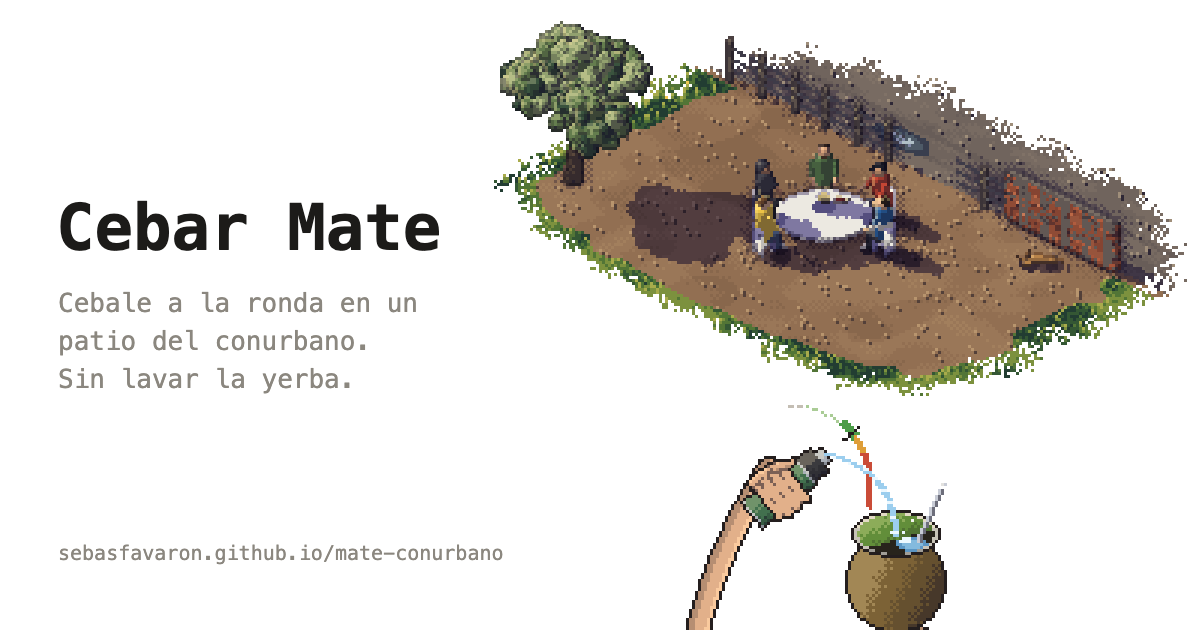
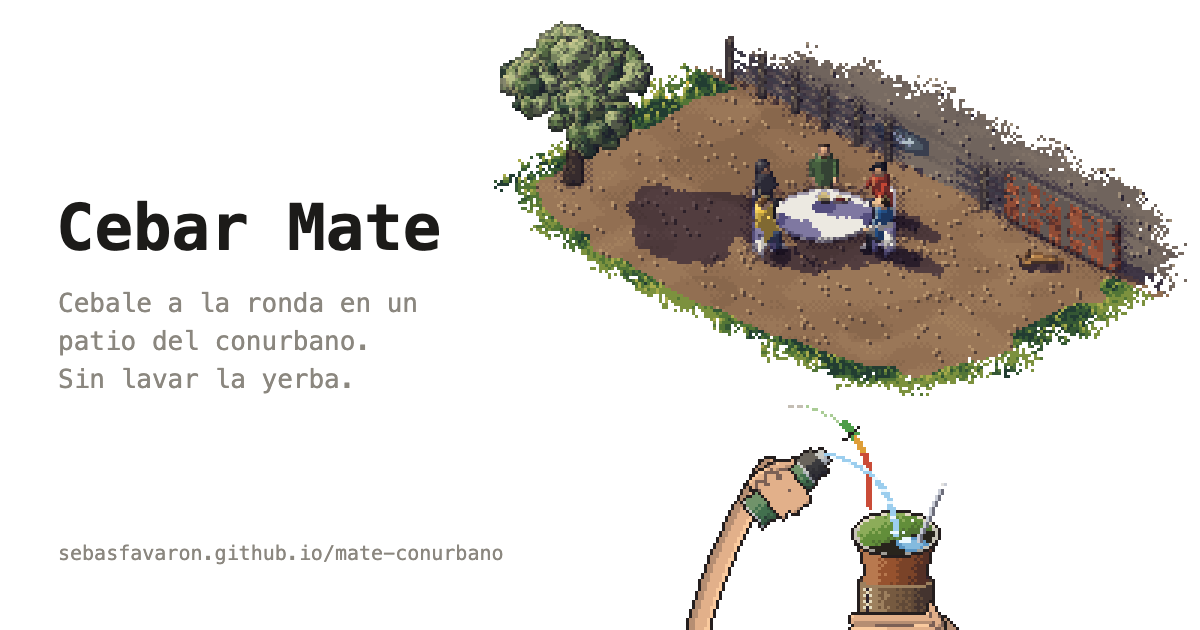
feat(rig): a leather-wrapped mate held in a three-finger grip like the thermos

Changed region(s): [[0.6783, 0.8746, 0.8017, 1.0], [0.6167, 0.754, 0.6783, 0.8444]]

diff --git a/src/scene.js b/src/scene.js
@@ -443,14 +443,14 @@ const lerp3 = (a, b, t) => [lerp(a[0], b[0], t), lerp(a[1], b[1], t), lerp(a[2],
 // Your hands, the thermos and the gourd, drawn pixel by pixel over the bottom centre and not to world scale.
 const RIG = {
   mouth: { x: 204, y: 230, rx: 15, ry: 8 },     // gourd opening seen from 30° above
-  body: { x: 204, y: 246, rx: 17, ry: 17 },     // calabaza belly below the mouth
+  body: { x: 204, y: 256, half: 12.5, top: -11, bottom: 10, arc: 2.5 }, // leather tube: centre, half width, rims, rim ellipse
   pivot: { x: 168, y: 214 },                    // your left fist, where the thermos turns
   thermo: { back: 16, front: 17, half: 6 },     // thermos length behind / ahead of the fist, half width
   hole: { u: .35, v: .45 },                     // centre of the side hole inside the mouth (unit ellipse)
   moundTop: { u: -.45, v: -.45 },               // dry crest against the far wall
 };
 const C = {
-  ink: rgb(36, 30, 30), steel: rampOf([170, 176, 184]), cap: rampOf([196, 52, 44]), gourd: rampOf([124, 98, 54]),
+  ink: rgb(36, 30, 30), steel: rampOf([170, 176, 184]), cap: rampOf([196, 52, 44]), gourd: rampOf([150, 82, 46]), leather: rampOf([118, 90, 64]), lace: rgb(230, 220, 190),
   rim: rampOf([200, 196, 184]), skin: rampOf([226, 176, 138]),
   thermos: rampOf([66, 112, 78]), cup: rampOf([58, 58, 62]),
   yerba: [98, 142, 58], yerbaWet: [52, 86, 40], yerbaPale: [176, 178, 128], hole: rgb(40, 36, 28),
@@ -533,20 +533,24 @@ function hand(parts) {
   });
 }
 
-// Your left hand round the thermos, in its turning frame: the heel of the hand on the near side, four fingers
-// wrapped across the body and the thumb up its edge towards the spout.
-function thermosHand(toScreen, half) {
-  const cap = (a0, b0, a1, b1, r0, r1 = r0) => [...toScreen(a0, b0), ...toScreen(a1, b1), r0, r1];
-  hand([cap(-7.5, -half - 1.6, 1, -half - 1, 3.2, 3),
-    ...[2.2, -1.4, -5, -8.3].map((a, k) => cap(a, -half, a - .4, k === 3 ? half + .2 : half + 1.2, k === 3 ? 1.6 : 2)),
-    cap(.5, -half - 1.6, 6, -half + .8, 2.1, 1.7)]);
+// A hand round an upright cylinder, in the cylinder's own frame (a along it, b across, ±half its edges): the
+// heel of the hand on one side, four fingers wrapped across the front and the thumb up the edge. k scales it.
+const FINGERS = [[2, 2.4, 1.3], [-2.6, 2.4, 1.2], [-7, 2, .4]]; // along the body, radius, tip past the edge
+function grip(toScreen, half, k = 1) {
+  const cap = (a0, b0, a1, b1, r0, r1 = r0) => [...toScreen(a0 * k, b0), ...toScreen(a1 * k, b1), r0 * k, r1 * k];
+  hand([cap(-7.5, -half - 1.6 * k, 1, -half - k, 3.2, 3),
+    ...FINGERS.map(([a, r, tip]) => cap(a, -half, a - .4, half + tip * k, r)),
+    cap(.5, -half - 1.6 * k, 6, -half + .8 * k, 2.1, 1.7)]);
 }
 
-// Your right hand is a round stump the gourd sits on.
-function stump() {
-  const { body: g } = RIG, y = g.y + g.ry - 1;
-  hand([[g.x - 1, y, g.x + 3, y, 5.5, 5.5]]);
+// Your right hand round the leather, mirrored so the heel sits on the right where the arm comes in, low enough
+// to leave the lacing showing. With the mate away it closes into a fist.
+const GRIP = { k: 1, dy: 4 };
+function gourdHand(holding) {
+  const { body: b } = RIG, cy = b.y + GRIP.dy, half = holding ? b.half : 5;
+  grip((a, w) => [b.x + b.half - half - w, cy - a], half, GRIP.k);
 }
+function gourdWrist() { const { body: b } = RIG; return [b.x + b.half + 3, b.y + GRIP.dy + 2]; }
 
 // An Argentine thermos: hammered green body, steel bands, a dark cup for a cap and the steel pouring spout.
 function drawThermos(angle, glow) {
@@ -568,7 +572,7 @@ function drawThermos(angle, glow) {
     return shadeOf(C.thermos, cyl + hammer, ix, iy);
   });
   if (glow) outlineGlow(mask);
-  thermosHand(toScreen, half);
+  grip(toScreen, half);
   return toScreen(front, 0);
 }
 
@@ -591,13 +595,28 @@ function moundEdge(u, height) {
 function drawRigGourd(fill, yerba, wetTop, overflow, glow, dry = 0, murk = 0) {
   const water1 = rgb(...mixRgb([132, 186, 222], MURK, murk)), water2 = rgb(...mixRgb([92, 150, 196], MURK_DEEP, murk));
   const { mouth: m, body: b } = RIG;
-  // belly
-  const belly = shape(b.x - b.rx - 1, m.y, b.x + b.rx + 1, b.y + b.ry + 1, (x, y) => {
-    const u = (x - b.x) / b.rx, v = (y - b.y) / b.ry;
-    const neck = y < m.y + m.ry ? Math.abs(x - m.x) <= m.rx + 1 + (y - m.y) * .3 : true;
-    if (u * u + v * v > 1 || !neck) return null;
-    return .72 - u * .45 - v * .2;
+  // a mate camionero: the calabaza flares out to the mouth from a tube of leather laced up one side
+  const top = b.y + b.top, bottom = b.y + b.bottom, reach = Math.max(b.half, m.rx + 1) + 1;
+  const neck = y => lerp(11, m.rx + .5, (1 - clamp((y - m.y) / (top - m.y), 0, 1)) ** 2);
+  const belly = shape(b.x - reach, m.y, b.x + reach, bottom + b.arc + 1, (x, y) => {
+    const dx = x - b.x, s = Math.sqrt(Math.max(0, 1 - (dx / b.half) ** 2)), front = top + b.arc * s;
+    if (Math.abs(dx) <= b.half && y >= front && y <= bottom + b.arc * s) {
+      if (y < front + 1) return C.leather[4];                         // the pale cut edge of the leather
+      const grain = (hash(x | 0, Math.floor(y / 6)) - .5) * .14;
+      return shadeOf(C.leather, .72 - dx / b.half * .5 + grain, x | 0, y | 0);
+    }
+    const w = neck(y);
+    if (y < front && Math.abs(dx) <= w) return .74 - dx / w * .45 - (y - m.y) / (top - m.y) * .1;
+    if (Math.abs(dx) <= b.half && y >= top - b.arc * s && y < front) return C.leather[1]; // inside the tube
+    return null;
   }, C.gourd);
+  // the lacing: a dark seam with little pale crosses stitched over it
+  const sx = b.x - b.half + 3;
+  for (let y = Math.ceil(top + b.arc * .6) + 1, k = 0; y < bottom + b.arc * .4; y++, k++) {
+    px(sx, y, C.leather[0]);
+    if (k % 4 === 1) px(sx, y, C.lace);
+    else if (k % 4 !== 3) { px(sx - 1, y, C.lace); px(sx + 1, y, C.lace); }
+  }
   // rim and inside
   const height = lerp(.35, 1, clamp(yerba, 0, 1));
   const hole = [RIG.hole.u, RIG.hole.v];
@@ -704,13 +723,12 @@ export function drawRig(state, t) {
   if (state.tutorial && state.phase === 'drink') fill *= 1 - clamp(state.phaseTime / T.DRINK_TIME, 0, 1);
   const angle = lerp(0, 105 * Math.PI / 180, inHand ? rigFx.tilt : 0);
 
-  // your right arm, the gourd sitting on its stump. Passing the mate, the arm lifts towards the table and
-  // lets go halfway through 'out'; it reaches up again to take it back.
+  // your right hand round the leather of the gourd, or closed on nothing while it goes round. Passing the
+  // mate, the arm lifts towards the table and lets go halfway through 'out'; it reaches up again to take it back.
   const { k: lift, holding } = rigReach(state);
   const home = { mx: RIG.mouth.x, my: RIG.mouth.y, bx: RIG.body.x, by: RIG.body.y };
   RIG.mouth.x += REACH[0] * lift; RIG.mouth.y += REACH[1] * lift; RIG.body.x += REACH[0] * lift; RIG.body.y += REACH[1] * lift;
-  arm(home.bx + 22, H + 8, RIG.body.x + 1, RIG.body.y + RIG.body.ry - 1, 4.7, .3);
-  stump();
+  arm(home.bx + 22, H + 8, ...gourdWrist(), 4.7, .3);
   if (holding && !inHand) {
     drawRigGourd(state.phase === 'out' ? fill : 0, state.yerba, state.wetTop, 0, false, 0, 0);
   } else if (inHand) {
@@ -725,6 +743,7 @@ export function drawRig(state, t) {
     drawRigGourd(fill, state.yerba, state.wetTop, state.phase === 'pour' ? state.turn.overflow : 0, pulse, dry, murk);
     if (fill > .15) drawSteam(t, fill);
   }
+  gourdHand(inHand || holding);
   Object.assign(RIG.mouth, { x: home.mx, y: home.my });
   Object.assign(RIG.body, { x: home.bx, y: home.by });
 
